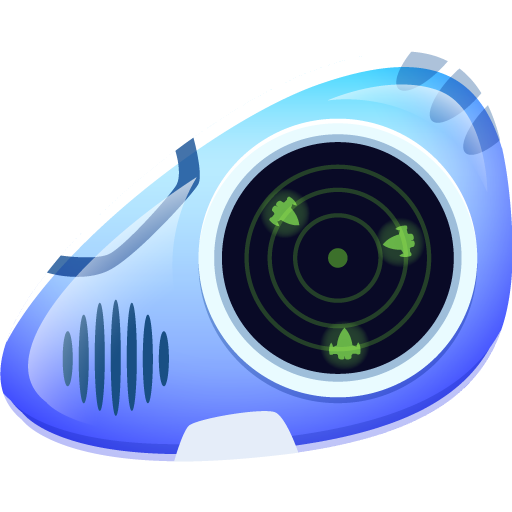
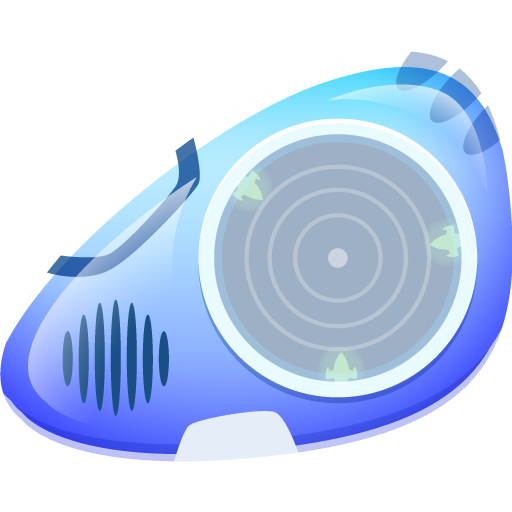
fix(ui): add meteorite Next-box preview scale correction
Introduce `meteoritePreviewScaleModifier` (Inspector-tunable, default 0.5)
to shrink the meteorite sprite inside the HUD's circular Next frame, whose
authored bounds overflow the frame at the same scale used for planet previews.

Reset `nextPlanetUIImg.rectTransform.localScale` to `Vector3.one` on

Changed region(s): [[0.4062, 0.25, 0.9062, 0.75]]

diff --git a/Assets/PlanetLauncher.cs b/Assets/PlanetLauncher.cs
@@ -117,6 +117,16 @@ public class PlanetLauncher : MonoBehaviour
     // uniformly if real sizes overflow the launcher area.
     [SerializeField] private float launcherVisualScaleModifier = 1f;
 
+    // Fixed (NOT tier-based — the Next box shows every planet tier at one
+    // identical size by design, see RefreshPreviews) correction for the
+    // meteorite's Next-box preview only. The meteorite sprite's own authored
+    // bounds are proportioned differently from the planet PNGs, so at the
+    // same 1:1 scale it overflows the HUD's circular frame even though
+    // preserveAspect keeps it inside its RectTransform. 1 = no correction;
+    // tune down in the Inspector until it visually sits inside the frame
+    // like the planet previews do.
+    [SerializeField] [Range(0.1f, 1f)] private float meteoritePreviewScaleModifier = 0.5f;
+
     [Header("Skills")]
     // Skill hook: while true, the next launched planet is a wildcard that adopts
     // the tier of whatever planet it touches first. Consumed on launch.
@@ -480,24 +490,11 @@ public class PlanetLauncher : MonoBehaviour
                     ? previewTransform.parent.lossyScale.x
                     : 1f;
 
-                float worldScale;
-                if (CurrentIsMeteorite)
-                {
-                    // Meteorites have no PlanetMerge growth curve — the
-                    // prefab's own authored scale IS its Tier1 size.
-                    worldScale = meteoritePrefab.transform.localScale.x * launcherVisualScaleModifier;
-                }
-                else if (prefabMerge != null)
-                {
-                    // Size the preview to the exact world scale the fired planet
-                    // will spawn at (PlanetMerge.Start snaps spawns onto the same
-                    // curve), so a Tier3 in the slot is visibly a Tier3.
-                    worldScale = prefabMerge.ScaleForTier(CurrentTier) * launcherVisualScaleModifier;
-                }
-                else
-                {
-                    worldScale = previewTransform.localScale.x;
-                }
+                // Falls back to whatever scale is already on the transform
+                // if neither prefab reference is wired, so a misconfigured
+                // Inspector never zeroes the preview out.
+                float worldScale = ComputeQueueWorldScale(CurrentIsMeteorite, CurrentTier)
+                    ?? previewTransform.localScale.x;
 
                 // localScale is multiplied by every ancestor's scale before it
                 // reaches the screen; divide that back out so the preview's
@@ -514,6 +511,13 @@ public class PlanetLauncher : MonoBehaviour
 
         if (nextPlanetUIImg != null)
         {
+            // Deliberately NOT sized off PLANET tier: the Next box shows
+            // every planet tier at one identical size by design. Only
+            // sprite/color/visibility swap for planets — the RectTransform
+            // itself is never touched. (The physical bodies still get their
+            // real diverse scale once actually launched/merged in the arena
+            // — see loadedPlanetRenderer above and PlanetMerge/Meteorite's
+            // own tier-growth curves.)
             Sprite nextSprite = NextIsMeteorite ? MeteoritePreviewSprite() : SpriteForTier(NextTier);
             nextPlanetUIImg.sprite = nextSprite;
             nextPlanetUIImg.color = NextIsMeteorite && prefabMeteoriteRenderer != null
@@ -522,7 +526,44 @@ public class PlanetLauncher : MonoBehaviour
             // A UI Image with a null sprite renders as a solid white square;
             // disable it outright instead if the tier has no art yet.
             nextPlanetUIImg.enabled = nextSprite != null;
+
+            // The one exception: the meteorite sprite's own authored bounds
+            // overflow the HUD's circular frame at the planet previews'
+            // scale, so it gets a fixed corrective shrink here. Reset to
+            // Vector3.one for every planet frame too — otherwise a meteorite
+            // preview's shrink would still be sitting on the transform the
+            // next time a regular planet cycles into the Next slot.
+            nextPlanetUIImg.rectTransform.localScale = NextIsMeteorite
+                ? Vector3.one * meteoritePreviewScaleModifier
+                : Vector3.one;
         }
+    }
+
+    // Source of truth for "how big will this queued spawn actually be in
+    // world units" — used by the loaded-slot world-space preview so it
+    // always matches the real spawned body's size. (The Next UI indicator
+    // deliberately does NOT use this — it stays a fixed-size box regardless
+    // of tier/type, see RefreshPreviews.) Returns null when the relevant
+    // prefab reference isn't wired, so the caller can fall back to whatever
+    // it'd otherwise do instead of silently collapsing to a zero scale.
+    private float? ComputeQueueWorldScale(bool isMeteorite, PlanetTier tier)
+    {
+        if (isMeteorite)
+        {
+            // Meteorites have no PlanetMerge growth curve — the prefab's own
+            // authored scale IS its Tier1 size (the only tier the launcher
+            // ever queues one at; growth only happens after it's on the board).
+            return meteoritePrefab != null
+                ? meteoritePrefab.transform.localScale.x * launcherVisualScaleModifier
+                : (float?)null;
+        }
+
+        // Size to the exact world scale the fired planet will spawn at
+        // (PlanetMerge.Start snaps spawns onto the same curve), so a Tier3
+        // preview is visibly a Tier3.
+        return prefabMerge != null
+            ? prefabMerge.ScaleForTier(tier) * launcherVisualScaleModifier
+            : (float?)null;
     }
 
     private Sprite SpriteForTier(PlanetTier tier)